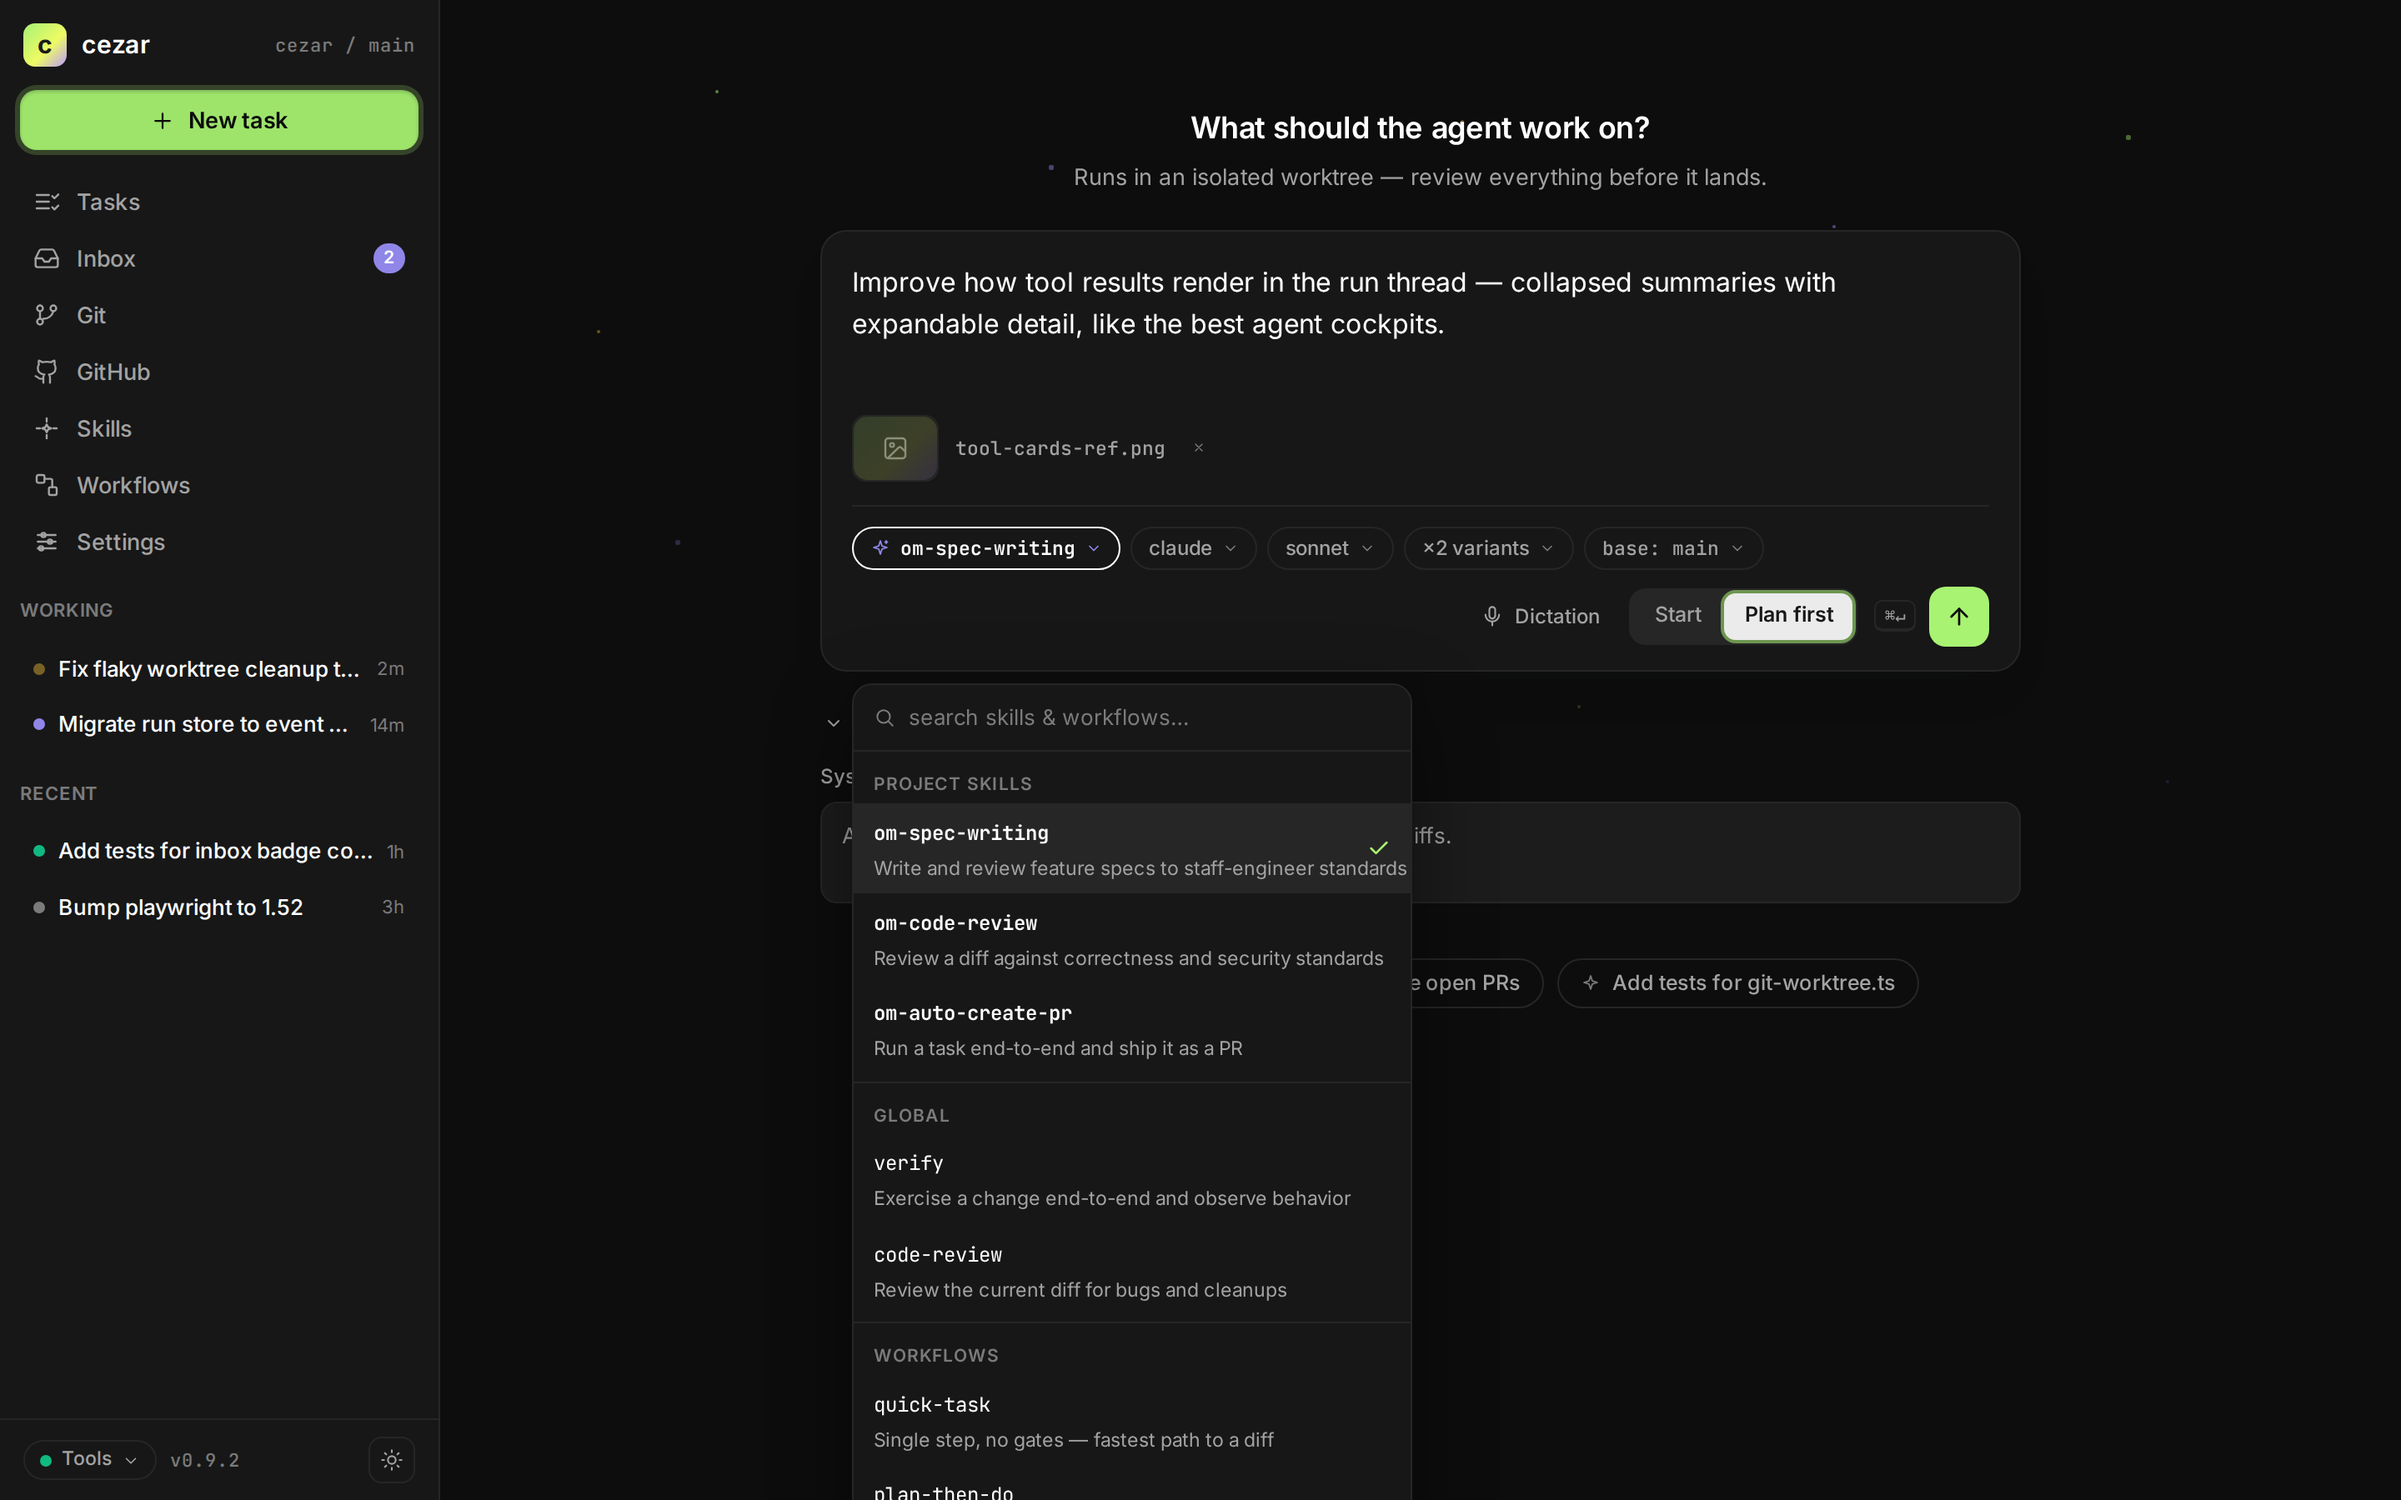
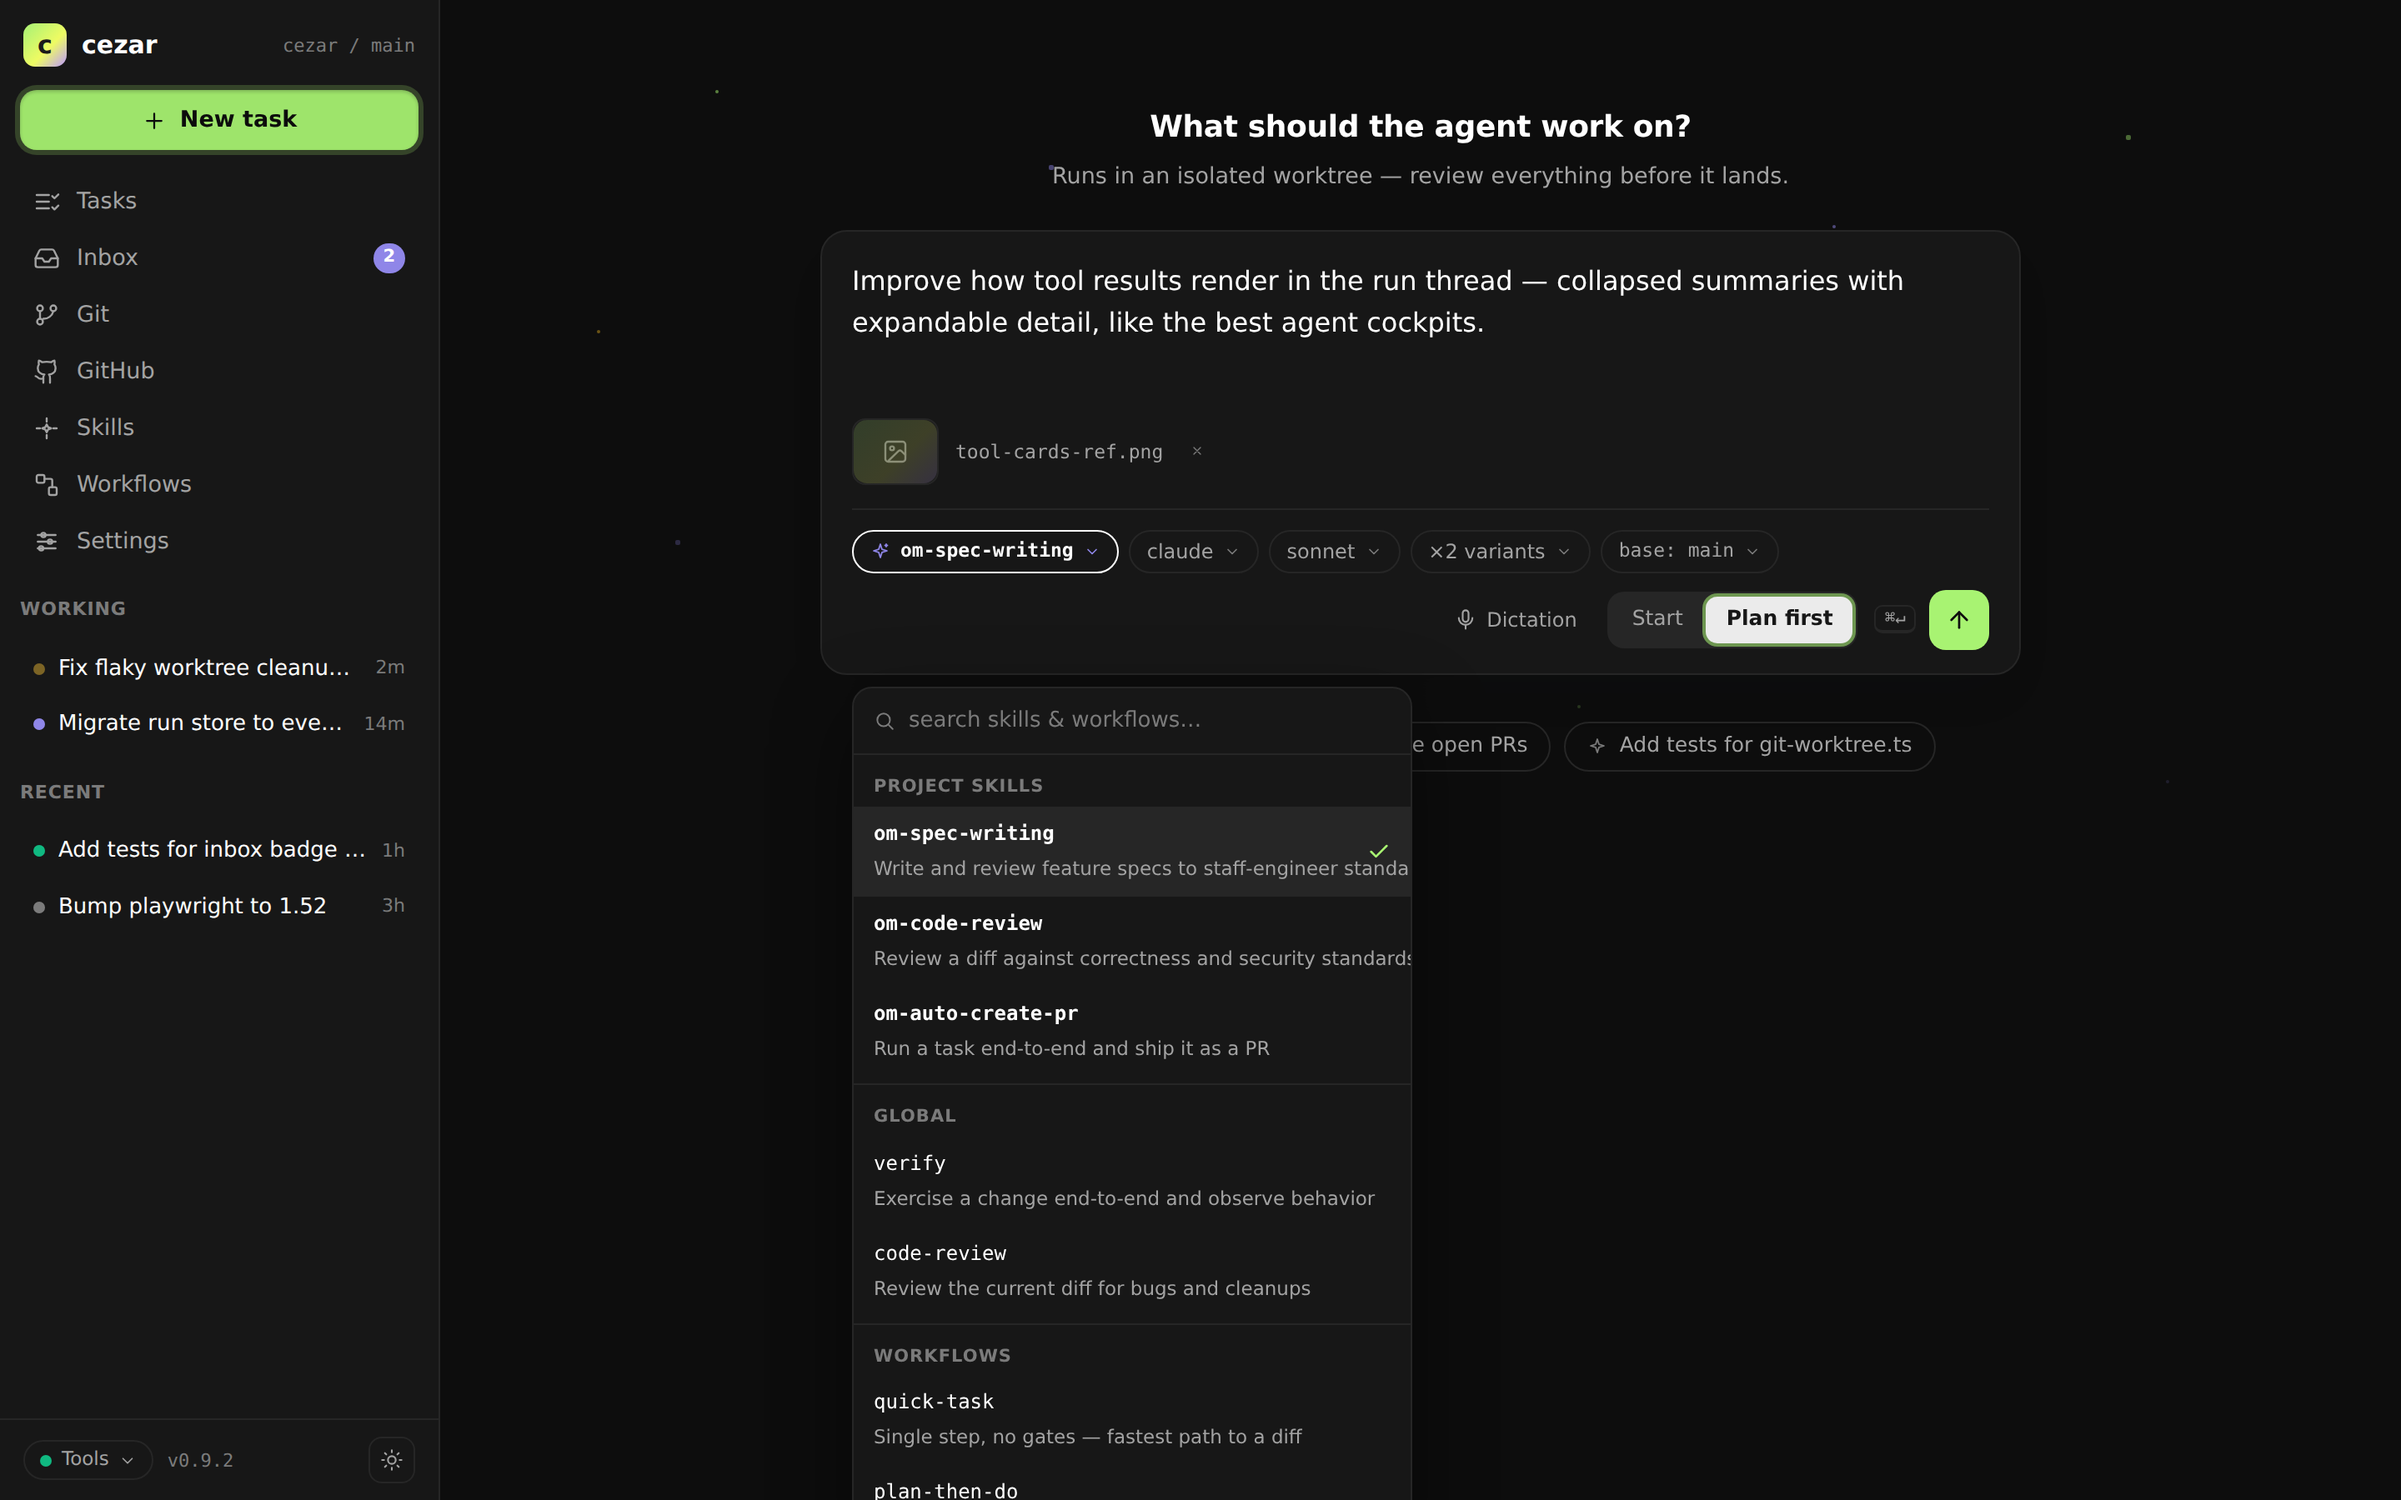
docs: system prompt lives in Settings, not the new-task composer

diff --git a/docs/mockups/new-task.html b/docs/mockups/new-task.html
@@ -130,19 +130,6 @@
     overflow: hidden; text-overflow: ellipsis; white-space: nowrap; margin-top: 1px; }
   .menu-item .mi-check { color: var(--primary); flex: none; }
 
-  /* ---------- advanced disclosure ---------- */
-  .advanced { margin-top: 18px; }
-  .adv-toggle { display: inline-flex; align-items: center; gap: 6px;
-    font-size: 12.5px; font-weight: 600; color: var(--muted-foreground); padding: 4px 2px; }
-  .adv-toggle:hover { color: var(--foreground); }
-  .adv-panel { margin-top: 10px; }
-  .adv-label { display: block; font-size: 12px; font-weight: 500; color: var(--muted-foreground); margin-bottom: 6px; }
-  .sysprompt {
-    width: 100%; background: var(--card-2); border: 1px solid var(--border);
-    border-radius: var(--radius); padding: 10px 12px; resize: none; outline: none;
-    font: 400 13px/1.5 var(--sans); color: var(--muted-foreground);
-  }
-
   /* ---------- suggestions ---------- */
   .suggest-row { display: flex; justify-content: center; gap: 8px; flex-wrap: wrap; margin-top: 28px; }
   .suggest {
@@ -425,18 +412,6 @@
                 </button>
               </span>
             </div>
-          </div>
-        </div>
-
-        <!-- advanced disclosure (open) -->
-        <div class="advanced">
-          <button class="adv-toggle" aria-expanded="true">
-            <svg width="12" height="12" viewBox="0 0 24 24" fill="none" stroke="currentColor" stroke-width="2" stroke-linecap="round" stroke-linejoin="round"><path d="m6 9 6 6 6-6"/></svg>
-            Advanced
-          </button>
-          <div class="adv-panel">
-            <label class="adv-label" for="sysprompt">System prompt</label>
-            <textarea class="sysprompt" id="sysprompt" rows="2">Always follow the repo's AGENTS.md. Prefer minimal diffs.</textarea>
           </div>
         </div>
 

diff --git a/.ai/specs/2026-07-14-cockpit-ui-redesign.md b/.ai/specs/2026-07-14-cockpit-ui-redesign.md
@@ -106,7 +106,7 @@ type UiItem =
 - Emitted by the runners (`src/core/*-runner.ts`) alongside v1 events; the RunManager persists v2 to the same NDJSON stream (new `type` values — the current GUI already renders unknown types as dim notes, so mixed files are safe).
 - **Key mappings**: Claude `TodoWrite` / Codex `todoList` / OpenCode `todowrite` → `plan.updated` (full-replacement, identical semantics); Claude `thinking` blocks / Codex `reasoning` items / OpenCode `reasoning` parts → reasoning items; Codex `item/commandExecution/outputDelta` → `item.delta{field:'output'}` (live command output); Claude `Edit` input & Codex `fileChange.changes` & OpenCode `patch` parts → structured `FileDiff`s; Claude `parent_tool_use_id` / OpenCode `subtask` → `parentItemId` (sub-agent nesting); OpenCode turn-end switches to `session.idle`.
 - The **tool display model** (title/verb/icon per tool name + `toolKind`) lives in `web/src/protocol/` next to the types — computed once, used by thread, activity groups and notifications (paseo's pattern).
-- **System prompt**: `AgentRunSpec` already carries `systemPrompt` per backend (`--append-system-prompt` for claude; codex and opencode prepend it to the first user message). v2 adds it end-to-end: `POST /api/runs` accepts `systemPrompt?`, a Settings-level default (`config.json: systemPrompt?`) is merged, and the composer's advanced row exposes it. Works with every backend because it rides the existing seam — coding-agent-agnostic by construction.
+- **System prompt**: `AgentRunSpec` already carries `systemPrompt` per backend (`--append-system-prompt` for claude; codex and opencode prepend it to the first user message). v2 adds it end-to-end: the system prompt is configured in **Settings → Agents** (`config.json: systemPrompt?`) and applied to every run; `POST /api/runs` keeps an optional `systemPrompt?` override for programmatic callers (bookmarklets, scripts) — it is deliberately NOT part of the new-task composer UI. Works with every backend because it rides the existing seam — coding-agent-agnostic by construction.
 
 ### Backend parity requirement (hard rule)
 
@@ -181,7 +181,7 @@ New nav tab, registry-driven so sections grow without layout changes:
 
 - **Skills** (now): the current skills catalog + refresh + bookmarklet panel move here, with project-first ordering (#377).
 - **Appearance** (now): theme light/dark/system, accent choice (lime default), UI density. Persisted in `ui-state.json` (additive keys).
-- **Agents** (now): default runner, per-runner model presets, default system prompt, base branch — today's scattered `PUT /api/config` knobs in one place. Coding-agent-agnostic: sections describe capabilities (`runner`, `model`, `system prompt`), never vendor-specific config formats.
+- **Agents** (now): default runner, per-runner model presets, **the system prompt** (the single place it is edited), base branch — today's scattered `PUT /api/config` knobs in one place. Coding-agent-agnostic: sections describe capabilities (`runner`, `model`, `system prompt`), never vendor-specific config formats.
 - **MCP, notifications, keyboard** (later): placeholder sections listed in the registry but hidden until implemented.
 
 ## Design system
@@ -220,7 +220,7 @@ Selected run, active tab, review-gate state — all restorable from the URL; sha
 
 ### New task (full-screen, #386)
 
-- Route `/new` (also the `/new?skill=…` bookmarklet target, unchanged contract). **Centered composer** on a grain+twinkle hero surface, agent-desktop home style: big textarea ("Describe a task for the agent…"), then a pill row: **Workflow/Skill picker** (cmdk searchable dropdown — project skills first and bold, global after, #377/#385 pattern), **Runner** (hidden unless >1 installed), **Model**, **Variants ×1/×2/×3** (control returns — server path never left), **Base branch**, and an **advanced disclosure**: system prompt textarea.
+- Route `/new` (also the `/new?skill=…` bookmarklet target, unchanged contract). **Centered composer** on a grain+twinkle hero surface, agent-desktop home style: big textarea ("Describe a task for the agent…"), then a pill row: **Workflow/Skill picker** (cmdk searchable dropdown — project skills first and bold, global after, #377/#385 pattern), **Runner** (hidden unless >1 installed), **Model**, **Variants ×1/×2/×3** (control returns — server path never left), **Base branch**. (The system prompt is a Settings → Agents concern, not a per-task composer control.)
 - **Plan mode is a toggle, not a button** (#383): segmented `Start | Plan first` control with a clearly selected state; in plan mode, submit produces the plan review (below) instead of running.
 - Attachments: paperclip + paste, thumbnail row with remove; drag-drop anywhere on the surface.
 - Composer intelligence (shared component with thread composer): `/` opens skill autocomplete (#380) inserting `/skill-name` refs; `@` mentions files (worktree-aware, fuzzy); **mic button labeled "Dictation"** (tooltip + aria) using the Web Speech API when available — recording state swaps the footer for an overlay with timer + partial transcript + cancel / insert / insert-and-send (paseo's exact pattern); hidden with a "not supported in this browser" hint otherwise.
@@ -311,7 +311,7 @@ Each phase is independently shippable; issues in parentheses close in that phase
 - **R1 — Platform + shell**: Vite/React/Tailwind/shadcn scaffold, tokens, fonts, Hono static serving + dev proxy, app shell (sidebar, nav, theme system, env chips, ⌘K), task quick-list on live SSE. (#378, #369, #354 groundwork)
 - **R2 — Protocol v2**: runner emitters + RunManager persistence + `web/src/protocol` display model; auto-summary titles + diffStat on RunRecord; system-prompt end-to-end. (#389-data, system prompt)
 - **R3 — Thread**: full task detail — turns, tool cards, context groups, reasoning, plan dock, step rail, Streamdown+Shiki, virtua, composer (skills `/`, `@` files, dictation, attachments), review gate, variants compare. (#381, #382, #379, #380, dictation)
-- **R4 — New task + list**: full-screen composer with plan-mode toggle + variants + system prompt; task list/table upgrades with editable titles + ± stats. (#386, #383, #389)
+- **R4 — New task + list**: full-screen composer with plan-mode toggle + variants; task list/table upgrades with editable titles + ± stats. (#386, #383, #389)
 - **R5 — Git view + forge seam**: structured changes/files endpoints, git actions (commit/push/branch), forge driver extraction, Changes/Files tabs, repo view rebuild, Create/View PR, open-in-editor/VS Code handoff. (#390, #385-adjacent forge gating)
 - **R6 — Remaining views + Settings**: GitHub tab (searchable dropdowns), Skills→Settings, Workflows builder, Inbox, Settings (skills/appearance/agents), notifications. (#385, #377, #384)
 - **R7 — Retirement + polish**: delete legacy `web/app.js`/`style.css`, packaging flip to `web/dist`, design-guardian in gate, iOS pass on every view, docs/screenshots refresh.
@@ -339,7 +339,7 @@ Steps are sized for autonomous runs (om-auto-create-pr / -loop, one PR per phase
 12. Review gate + variants compare on new surfaces; virtua virtualization + scroll caches; iOS pass for the thread.
 
 ### Phase R4 — New task + list
-13. `/new` full-screen composer (pickers, plan-mode toggle, variants, system prompt, bookmarklet params, drafts).
+13. `/new` full-screen composer (pickers, plan-mode toggle, variants, bookmarklet params, drafts).
 14. Plan review overlay (drag-reorder, save-as-chain) on the new surface.
 15. Task list/table: editable titles, ± stats, PR chips; header meta with context gauge.
 

diff --git a/docs/mockups/README.md b/docs/mockups/README.md
@@ -7,11 +7,11 @@ Built on real cezar data (run `2d012907`'s actual NDJSON events, real skill name
 | Page | Shows | Issues |
 |---|---|---|
 | [`thread.html`](thread.html) | Task thread: tool cards, context groups, reasoning, plan dock, step rail, composer with Dictation | #381 #382 #380 |
-| [`new-task.html`](new-task.html) | Full-screen composer: skill picker dropdown, plan-mode toggle, variants, system prompt | #386 #383 #377 |
+| [`new-task.html`](new-task.html) | Full-screen composer: skill picker dropdown, plan-mode toggle, variants | #386 #383 #377 |
 | [`git-changes.html`](git-changes.html) | Session Changes tab: file tree, word-level diff, commit/push/Create PR action bar | #390 |
 | [`tasks-home.html`](tasks-home.html) | Task table with editable titles, ± stats, live CPU/Mem; sidebar quick-list with variant groups | #389 |
 | [`settings-skills.html`](settings-skills.html) | Settings tab with registry sub-nav; skills project-first/bold | #377 |
 
-Screenshots (Playwright, 2× scale) in [`screenshots/`](screenshots/): `*-desktop.png` 1440×900 dark, `*-iphone.png` 390×844, `*-light.png` light theme, plus `thread-desktop-tools.png` (tool cards in view) and `new-task-desktop-clean.png` (dropdown closed, system prompt visible).
+Screenshots (Playwright, 2× scale) in [`screenshots/`](screenshots/): `*-desktop.png` 1440×900 dark, `*-iphone.png` 390×844, `*-light.png` light theme, plus `thread-desktop-tools.png` (tool cards in view) and `new-task-desktop-clean.png` (dropdown closed).
 
 These are design targets for visual approval — the implementation is React + shadcn/ui per the spec, not these static files.
